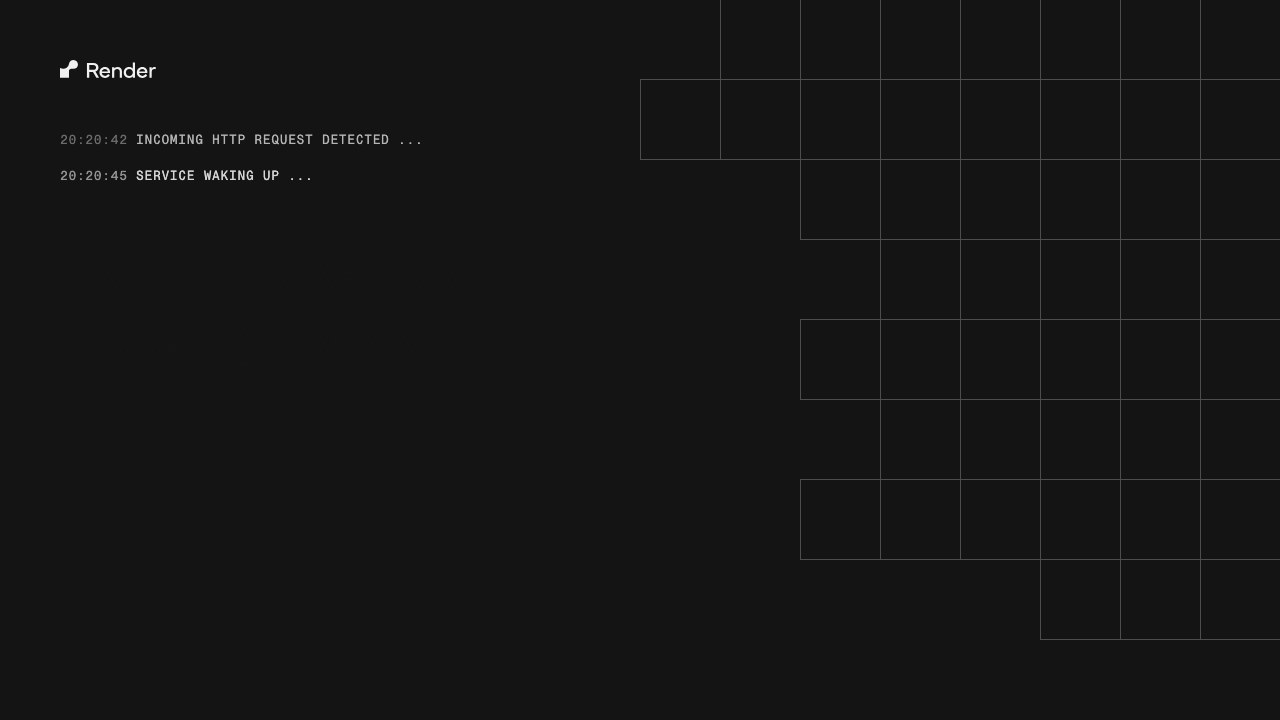
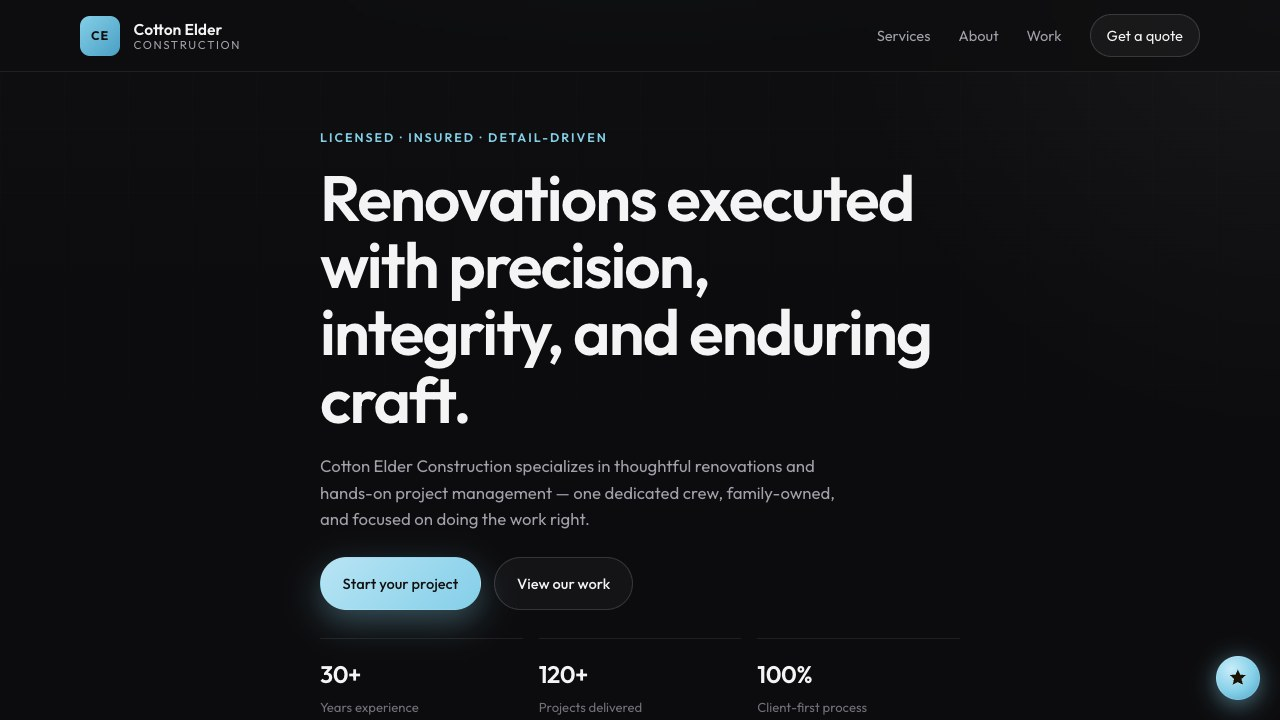
Fix Cotton Elder preview and boost its label backlight.
Capture the live site after Render finishes waking up and give the Cotton Elder title a stronger glow.

diff --git a/src/world/floatingText.js b/src/world/floatingText.js
@@ -214,6 +214,8 @@ function createTextPanel(text, options = {}) {
   panel.userData.textMesh = textMesh;
   panel.userData.glowMesh = glowMesh;
   panel.userData.glowLevel = 0;
+  panel.userData.glowMaxOpacity = options.glowMaxOpacity ?? 1;
+  panel.userData.glowProximity = options.glowProximity ?? 0.55;
   panel.userData.baseY = options.y ?? 4;
   panel.userData.phase = options.phase ?? 0;
   panel.userData.freq = options.freq ?? 0.7;
@@ -504,6 +506,9 @@ export function createPathFloatingLabels(curve) {
           phase: index * 0.8,
           freq: 0.45,
           drift: 0.03,
+          ...(wp.id === "cotton-elder"
+            ? { glowMaxOpacity: 1.35, glowProximity: 0.82 }
+            : {}),
         });
         panel.position.y = 4.8;
         panel.userData.baseY = 4.8;
@@ -601,7 +606,10 @@ function applyProximity(stop, ringProximity, textProximity, elapsed, catPosition
 
     const showText = showLabels;
     const lookFactor = lookAtPanelFactor(camera, panel);
-    const glowTarget = Math.max(lookFactor, showText ? textProximity * 0.55 : 0);
+    const glowTarget = Math.max(
+      lookFactor,
+      showText ? textProximity * (panel.userData.glowProximity ?? 0.55) : 0
+    );
     panel.userData.glowLevel = THREE.MathUtils.lerp(
       panel.userData.glowLevel ?? 0,
       glowTarget,
@@ -610,7 +618,9 @@ function applyProximity(stop, ringProximity, textProximity, elapsed, catPosition
     textMesh.material.opacity = showText ? 1 : 0;
     textMesh.visible = showText;
 
-    const glowOpacity = showText ? panel.userData.glowLevel * GLOW_MAX_OPACITY : 0;
+    const glowOpacity = showText
+      ? panel.userData.glowLevel * GLOW_MAX_OPACITY * (panel.userData.glowMaxOpacity ?? 1)
+      : 0;
     glowMesh.material.opacity = glowOpacity;
     glowMesh.visible = glowOpacity > 0.008;
   });